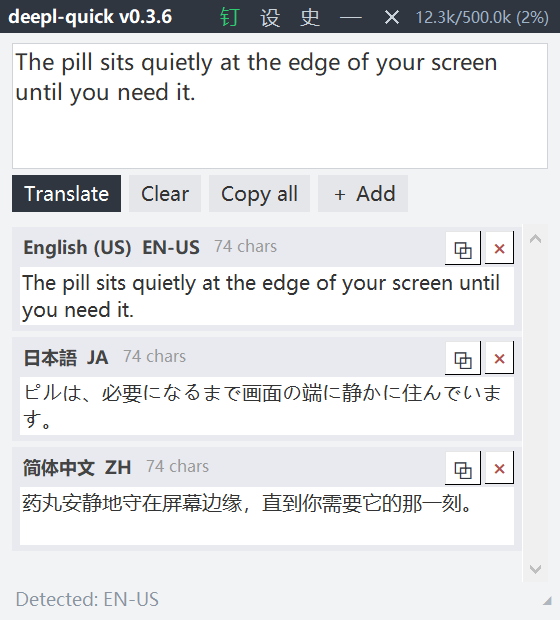
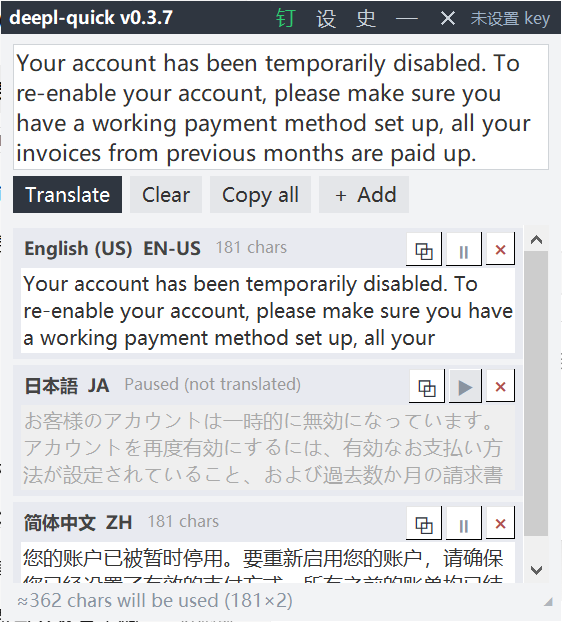
feat: v0.3.7 — card auto-fit height, per-language temporary pause, wider settings dialog, topmost real-style self-heal
- Result cards auto-fit their height to the translation (P-019); long output is fully visible at last
- New card-header pause button (pause/resume): exclude a language from this round to save quota; session-only, cache makes resume free (P-020)
- Settings dialog 500->580 so EN checkbox labels never clip (P-018 residual); tightened two long labels
- Topmost self-heal now reads the real window style via GetWindowLongW instead of Tk's cached flag (U-006 blind spot)
- Verified: smoke 56/56, headless probe 117/117; hero/settings screenshots refreshed (mock-state)

diff --git a/README.md b/README.md
@@ -10,9 +10,9 @@
   平时缩成一枚胶囊&nbsp;<img src="assets/pill.png" alt="pill" width="39">&nbsp;，悬停即展开 —— 看不懂 → 拿走译文，呼吸之间
 </p>
 
-![release](https://img.shields.io/github/v/release/geekkkk404/deepl-quick) ![python](https://img.shields.io/badge/Python-3.8%2B-306998) ![platform](https://img.shields.io/badge/Windows-10%20%2F%2011-0078d4) ![license](https://img.shields.io/badge/License-MIT-27ae60) ![selftest](https://img.shields.io/badge/self--test-53%20passing-27ae60)
+![release](https://img.shields.io/github/v/release/geekkkk404/deepl-quick) ![python](https://img.shields.io/badge/Python-3.8%2B-306998) ![platform](https://img.shields.io/badge/Windows-10%20%2F%2011-0078d4) ![license](https://img.shields.io/badge/License-MIT-27ae60) ![selftest](https://img.shields.io/badge/self--test-56%20passing-27ae60)
 
-当前版本：**v0.3.6** ・ License：[MIT](LICENSE)
+当前版本：**v0.3.7** ・ License：[MIT](LICENSE)
 
 [中文](#-中文) ・ [English](#english)
 
@@ -35,10 +35,11 @@
 - **贴边药丸常驻**：鼠标离开约 0.75s 自动折叠成 39×30 胶囊，悬停展开、静止不弹跳、拖动中不折叠；窗口位置与药丸位置均有记忆；后台轮询自动重申置顶并把窗口夹回屏内（分辨率变化 / 睡眠唤醒 / RDP 重连自愈），运行痕迹落 `%TEMP%\dq_exit.log` 可事后排查
 - **开机自启（可选）**：设置弹窗勾选即写 HKCU Run 键（免管理员），登录后直接缩成贴边药丸；Windows 任务管理器「启动应用」可随时停用；自带单实例保护，不会叠出两枚药丸
 - **自动检测源语言**：无需选择源语言，DeepL 返回检测结果并显示在界面上
-- **常驻目标语言**：默认英/日/中，可从完整语言清单勾选（上限 16 个）；清单支持在线刷新（DeepL 现已支持 111 门目标语言），DeepL 新增语言不用升级本工具；语言名以原生名显示（日本語 / Deutsch / Français…）；已选语言即结果卡片列表本身，点卡片头部「×」即可移除该语言
+- **常驻目标语言**：默认英/日/中，可从完整语言清单勾选（上限 16 个）；清单支持在线刷新（DeepL 现已支持 111 门目标语言），DeepL 新增语言不用升级本工具；语言名以原生名显示（日本語 / Deutsch / Français…）；已选语言即结果卡片列表本身，点卡片头部「×」移除、「⏸」临时停用（本次不翻译、不扣额度，点「▶」恢复，清单不丢）
 - **界面多语言**：界面自动跟随 Windows 系统语言（中文 / English），可在设置中强制指定，切换即时生效
 - **逐语种一键复制**：每张译文卡片独立复制；「复制全部」按【语言】前缀合并
-- **省额度三件套**：翻译缓存（同文本同语言命中零消耗）、用量仪表（80%/95% 变色预警）、目标语懒加载
+- **长译文完整展示**：卡片高度随译文自适应（窗口缩放后自动重排），长译文完整展开，配合列表滚动 / 拖高窗口查看——不再固定两行截断
+- **省额度三件套**：翻译缓存（同文本同语言命中零消耗）、用量仪表（80%/95% 变色预警）、目标语懒加载；临时停用目标语（卡片头部「⏸」）可直接砍掉本次不需要的语种消耗
 - **本地翻译历史**：可在设置中关闭或一键清空；双击历史条目回填原文
 - **高质量模式**：可选 DeepL 下一代模型（`quality_optimized`），不额外消耗额度
 - **纯本地、零依赖**：密钥、历史、缓存全部只存本机；可选「重启时清空缓存 / 历史」隐私开关；Python 3.8+ 标准库即可运行（tkinter + urllib），空闲内存 ~30 MB
@@ -59,9 +60,10 @@
 | 操作 | 方式 |
 |------|------|
 | 翻译 | `Ctrl+Enter` 或点「翻译」 |
-| 复制某门语言 | 该卡片右上角「复制」 |
+| 复制某门语言 | 该卡片右上角「⧉」 |
 | 复制全部译文 | 「复制全部」 |
-| 增删常驻语言 | 语言条「＋语言」；chip 上「×」移除 |
+| 增删常驻语言 | 「＋语言」勾选；卡片头部「×」移除 |
+| 临时停用某语言（省额度） | 卡片头部「⏸」停用、「▶」恢复（仅本会话有效） |
 | 历史 | 标题栏「史」，双击条目回填原文 |
 | 设置（key / 高质量模式 / 历史开关 / host / 开机自启 / 界面语言） | 标题栏「设」 |
 | 折叠 / 展开 | 标题栏「—」；或鼠标离开 / 悬停自动 |
@@ -69,7 +71,7 @@
 | 置顶开关 | 标题栏「钉」（绿=开） |
 
 <p align="center">
-  <img src="assets/settings_zh.png" alt="设置弹窗" width="500">
+  <img src="assets/settings_zh.png" alt="设置弹窗" width="580">
 </p>
 
 ### 隐私
@@ -88,7 +90,7 @@
 
 ### 额度说明
 
-计费按**源文本字符数**：同一段文本翻 3 门语言 = 3 次请求 = 3 倍字符。本工具为此内置：缓存优先（命中零消耗）、默认手动触发（防抖自动翻可开）、每次翻译前显示预估消耗、额度耗尽（HTTP 456）明确提示不再重试。
+计费按**源文本字符数**：同一段文本翻 3 门语言 = 3 次请求 = 3 倍字符。本工具为此内置：缓存优先（命中零消耗）、默认手动触发（防抖自动翻可开）、每次翻译前显示预估消耗、卡片头部「⏸」临时停用本次不需要的语种、额度耗尽（HTTP 456）明确提示不再重试。
 
 ### 自检
 
@@ -96,7 +98,7 @@
 python deepl_quick.pyw --smoke
 ```
 
-53 项自检全部离线运行（数据文件重定向到临时目录、注册表读写走 scratch 键，不发任何网络请求）。
+56 项自检全部离线运行（数据文件重定向到临时目录、注册表读写走 scratch 键，不发任何网络请求）。
 
 ### License
 
@@ -110,8 +112,6 @@ python deepl_quick.pyw --smoke
 
 `deepl-quick` is a tiny translator widget for Windows: it normally shrinks into a single-character 「译」pill docked at the right edge of your screen. Hover to expand, paste any text, and DeepL auto-detects the source language while translating into your pinned target languages at once — each result one click away from your clipboard.
 
-Sibling project: [QuadTodo](https://github.com/geekkkk404/quad-todo) — same single-file, zero-dependency, fully-local philosophy.
-
 <p align="center">
   <img src="assets/hero_en.png" alt="deepl-quick main window" width="520">
 </p>
@@ -121,10 +121,11 @@ Sibling project: [QuadTodo](https://github.com/geekkkk404/quad-todo) — same si
 - **Edge pill, always resident** — auto-collapses (~0.75s) to a 39×30 pill when the mouse leaves; hover to expand; no bounce while idle, no collapse while dragging; both window and pill positions are remembered; the background poll re-asserts always-on-top and keeps the window inside the screen (self-heals after resolution changes / sleep-resume / RDP reconnects); runtime trace goes to `%TEMP%\dq_exit.log` for post-mortem checks
 - **Optional auto-start** — tick it in settings to register an HKCU Run key (no admin needed); the pill docks itself at login; disable anytime from Task Manager → Startup apps; single-instance guard included
 - **Auto source detection** — no language picking; DeepL returns the detected language and the UI shows it
-- **Pinned target languages** — EN/JA/ZH by default, pick from the full language list (up to 16); the list can be refreshed online (DeepL currently serves 111 target languages), so new DeepL languages appear without upgrading this tool; languages are shown by their native names (日本語 / Deutsch / Français…); the card list itself shows which languages are pinned — remove one with the "×" on its card header
+- **Pinned target languages** — EN/JA/ZH by default, pick from the full language list (up to 16); the list can be refreshed online (DeepL currently serves 111 target languages), so new DeepL languages appear without upgrading this tool; languages are shown by their native names (日本語 / Deutsch / Français…); the card list itself shows which languages are pinned — temporarily pause one with "⏸" on its card header (skipped this round, costs nothing; "▶" restores it, the pinned list never changes), remove with "×"
 - **Multilingual UI** — the interface follows your Windows system language (Chinese / English), and can be pinned to either in Settings; switching applies instantly
 - **One-click copy per language** — each card copies independently; "copy all" merges with language-name prefixes
-- **Quota-friendly trio** — translation cache (cache hits cost nothing), usage badge (amber ≥80%, orange ≥95%), per-request cost estimate before translating
+- **Full-length output** — card heights auto-fit their translation (re-fitting on window resize); long translations expand in full with list scrolling / window resizing — nothing is clipped to two fixed lines anymore
+- **Quota-friendly trio** — translation cache (cache hits cost nothing), usage badge (amber ≥80%, orange ≥95%), per-request cost estimate before translating; temporarily pause languages you don't need this round with the card-header "⏸"
 - **Local history** — toggleable and clearable in settings; double-click an entry to refill the source text
 - **High-quality mode** — optionally uses DeepL's next-gen model (`quality_optimized`) at no extra quota cost
 - **Fully local, zero dependencies** — key, history and cache never leave your machine; optional "clear cache / history on restart" privacy switches; runs on the Python 3.8+ standard library only (tkinter + urllib); ~30 MB idle memory
@@ -141,7 +142,7 @@ Sibling project: [QuadTodo](https://github.com/geekkkk404/quad-todo) — same si
 4. Hover the pill to expand, type, press `Ctrl+Enter`.
 
 <p align="center">
-  <img src="assets/settings_en.png" alt="Settings dialog" width="500">
+  <img src="assets/settings_en.png" alt="Settings dialog" width="580">
 </p>
 
 ### Privacy
@@ -160,7 +161,7 @@ Sibling project: [QuadTodo](https://github.com/geekkkk404/quad-todo) — same si
 
 ### Quota notes
 
-Usage is counted in **source characters**: translating one text into 3 languages = 3 requests = 3× characters. This tool therefore ships with: cache-first requests (hits cost nothing), manual trigger by default (debounced auto-translate is optional), a per-request cost estimate, and a clear stop on quota exhaustion (HTTP 456).
+Usage is counted in **source characters**: translating one text into 3 languages = 3 requests = 3× characters. This tool therefore ships with: cache-first requests (hits cost nothing), manual trigger by default (debounced auto-translate is optional), a per-request cost estimate, a card-header "⏸" to pause languages you don't need this round, and a clear stop on quota exhaustion (HTTP 456).
 
 ### Self-test
 
@@ -168,7 +169,7 @@ Usage is counted in **source characters**: translating one text into 3 languages
 python deepl_quick.pyw --smoke
 ```
 
-53 offline checks (data files go to a temp directory, registry writes go to a scratch key; no network requests).
+56 offline checks (data files go to a temp directory, registry writes go to a scratch key; no network requests).
 
 ### License
 

diff --git a/CHANGELOG.md b/CHANGELOG.md
@@ -3,6 +3,19 @@
 All notable changes to deepl-quick are documented here.
 本文件记录 deepl-quick 的全部重要变更。
 
+## v0.3.7 — 2026-11-16
+
+- **Long translations are fully visible now**: result cards auto-fit their height to the translated text (rewrapping on window resize) instead of clipping to two fixed lines — previously there was no way to see the rest of a longer translation at all.
+  **长译文完整可见**：结果卡片高度随译文自适应（窗口缩放后重排）——旧版固定两行，长译文被硬截断且无任何途径查看剩余内容。
+- New **temporary pause button** on each card (⏸ / ▶): pause a language for this round to save quota, restore with one click — the pinned list itself never changes, and re-translating after resuming hits the cache at zero cost. Pause state is session-only; all-paused shows a hint instead of firing requests.
+  卡片新增**临时停用按钮**（⏸ / ▶）：让某门语言本次不参与翻译以节省字符额度，一键恢复——常驻清单不动，恢复后重翻走缓存零消耗。停用态仅本会话有效；全部停用时空转提示、不发请求。
+- Settings dialog widened 500→580: English checkbox labels no longer clip at the right edge (longest label now point-asserted via font metrics in the headless probe); the "Auto-translate" label was tightened on both UI languages.
+  设置弹窗加宽 500→580：英文勾选框文案不再被右缘截断（探针新增 font.metrics 点名断言）；「自动翻译」勾选文案中英同步精简。
+- Fixed: the always-on-top self-heal read Tk's internal cache, which never notices when an external program demotes the window style via Win32 — it now reads the real window style bits (GetWindowLongW / WS_EX_TOPMOST) and re-asserts for real. A headless probe reproduces the external demotion and verifies recovery within two poll beats.
+  修复：置顶自愈此前读 Tk 内部缓存——外部程序经 Win32 直接降级时永不触发重申；现在读取真实窗口样式位（GetWindowLongW / WS_EX_TOPMOST）。无头探针复现真实外部降级并验证两拍内自愈。
+- Verified: smoke 56/56, headless probe 117/117 (point-named assertions for ⧉/⏸/× per card, pause/resume wiring, offline partial-pause end-to-end, dialog checkboxes/radios at zh/en).
+  验证：smoke 56/56，无头探针 117/117（逐卡点名 ⧉/⏸/×、停用/恢复接线、离线部分停用端到端、双语弹窗勾选框/单选行断言）。
+
 ## v0.3.6 — 2026-11-15
 
 - Title-bar hardening: growing version strings plus the usage badge could crush the last title-bar button to invisibility; the window title now truncates gracefully instead, and the title/usage fonts stepped down one size to fit.
